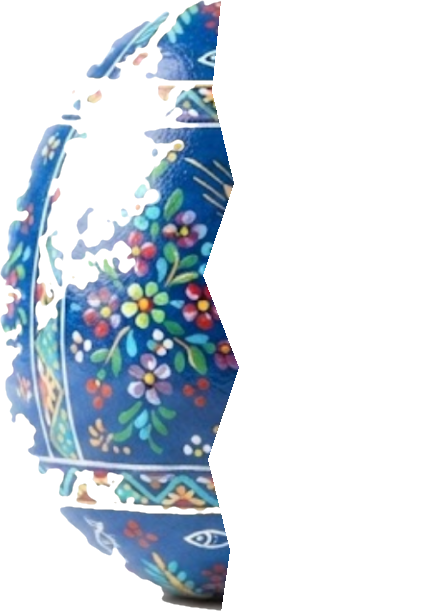
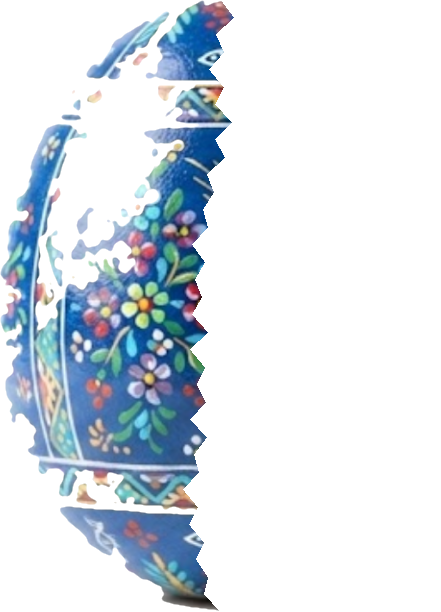
feat: remove egg widget texts and enhance realistic crack and split shell designs

Changed region(s): [[0.4127, 0.0, 0.5601, 1.0]]

diff --git a/src/components/EggWidget.css b/src/components/EggWidget.css
@@ -3,8 +3,8 @@
   flex-direction: column;
   align-items: center;
   justify-content: center;
-  padding: 2.5rem 1rem 1.5rem;
-  min-height: 180px;
+  padding: 1.5rem 1rem 1rem;
+  min-height: 150px;
 }
 
 /* ==================
@@ -16,7 +16,6 @@
   display: flex;
   flex-direction: column;
   align-items: center;
-  gap: 0.6rem;
 }
 
 .egg-image {
@@ -64,39 +63,34 @@
   100% { transform: rotate(-12deg) translateX(-6px) scale(1.05); }
 }
 
-/* Crack overlay */
+/* Crack overlay (Realistic png mask) */
 .egg-cracks {
   position: absolute;
-  top: 5px;
+  top: 0;
   left: 50%;
   transform: translateX(-50%);
-  z-index: 2;
+  width: 90px;
+  height: 125px;
+  object-fit: contain;
+  z-index: 3;
   pointer-events: none;
   animation: crackAppear 0.3s ease forwards;
-  filter: drop-shadow(0 0 4px rgba(255, 255, 255, 0.8));
+  filter: drop-shadow(0 0 3px rgba(255, 255, 255, 0.9)) drop-shadow(0 1px 2px rgba(0, 0, 0, 0.6));
+}
+
+.cracks-subtle {
+  opacity: 0.65;
+  clip-path: polygon(20% 0%, 80% 0%, 80% 45%, 20% 45%);
+}
+
+.cracks-heavy {
+  opacity: 1;
+  clip-path: polygon(0% 0%, 100% 0%, 100% 100%, 0% 100%);
 }
 
 @keyframes crackAppear {
-  from { opacity: 0; transform: translateX(-50%) scale(0.8); }
+  from { opacity: 0; transform: translateX(-50%) scale(0.85); }
   to   { opacity: 1; transform: translateX(-50%) scale(1); }
-}
-
-/* Hint text */
-.egg-hint {
-  font-size: 0.82rem;
-  font-weight: 700;
-  color: #cbd5e1;
-  text-align: center;
-  letter-spacing: 0.02em;
-  background: rgba(15, 23, 42, 0.6);
-  padding: 0.3rem 0.75rem;
-  border-radius: 10px;
-  animation: fadeIn 0.3s ease;
-}
-
-@keyframes fadeIn {
-  from { opacity: 0; transform: translateY(4px); }
-  to   { opacity: 1; transform: translateY(0); }
 }
 
 /* ==================
@@ -108,7 +102,8 @@
   flex-direction: column;
   align-items: center;
   width: 100%;
-  min-height: 160px;
+  min-height: 150px;
+  cursor: pointer;
 }
 
 /* Shell halves fly apart */
@@ -153,7 +148,6 @@
   display: flex;
   flex-direction: column;
   align-items: center;
-  gap: 0.6rem;
   animation: rabbitPop 0.6s cubic-bezier(0.175, 0.885, 0.32, 1.275) 0.35s both;
   position: relative;
   z-index: 5;
@@ -168,7 +162,7 @@
 /* Sparkles around rabbit */
 .rabbit-sparkles {
   position: absolute;
-  top: 0;
+  top: -10px;
   left: 50%;
   transform: translateX(-50%);
   width: 160px;
@@ -194,32 +188,4 @@
   40%  { opacity: 1; transform: scale(1.4) rotate(10deg); }
   70%  { opacity: 1; transform: scale(1) rotate(0deg); }
   100% { opacity: 0; transform: scale(0.5) translateY(-15px); }
-}
-
-/* Message & reset */
-.rabbit-msg {
-  font-size: 1.05rem;
-  font-weight: 800;
-  color: #f8fafc;
-  margin: 0;
-  animation: rabbitPop 0.5s ease 0.8s both;
-}
-
-.rabbit-reset-btn {
-  background: linear-gradient(135deg, #F9A8D4, #F472B6);
-  color: white;
-  border: none;
-  border-radius: 20px;
-  padding: 0.45rem 1.3rem;
-  font-size: 0.9rem;
-  font-weight: 700;
-  cursor: pointer;
-  transition: transform 0.2s ease, box-shadow 0.2s ease;
-  box-shadow: 0 4px 12px rgba(244, 114, 182, 0.4);
-  animation: rabbitPop 0.5s ease 1s both;
-}
-
-.rabbit-reset-btn:hover {
-  transform: scale(1.06);
-  box-shadow: 0 6px 18px rgba(244, 114, 182, 0.55);
 }

diff --git a/src/components/EggWidget.tsx b/src/components/EggWidget.tsx
@@ -34,34 +34,37 @@ export const EggWidget: React.FC = () => {
         <div
           className={`egg-container egg-${stage}`}
           onClick={handleClick}
-          title={stage === 'idle' ? 'なんか聞こえる…？タップしてみて！' : 'もう一回タップ！'}
         >
-          {/* Crack lines overlay when cracking */}
-          {stage === 'cracking' && (
-            <svg className="egg-cracks" viewBox="0 0 80 96" width="86" height="120">
-              <path d="M43 20 L38 38 L48 45 L38 65" stroke="#FFFFFF" strokeWidth="3" fill="none" strokeLinecap="round" />
-              <path d="M30 35 L25 48 L35 52" stroke="#FFFFFF" strokeWidth="2.5" fill="none" strokeLinecap="round" />
-              <path d="M55 30 L60 45 L50 54" stroke="#FFFFFF" strokeWidth="2.5" fill="none" strokeLinecap="round" />
-            </svg>
+          {/* Realistic intricate crack overlay on shaking and cracking */}
+          {stage === 'shaking' && (
+            <img
+              src="/rabbit_egg_cracks.png"
+              alt=""
+              className="egg-cracks cracks-subtle"
+            />
           )}
 
-          {/* New transparent PNG Egg Image */}
+          {stage === 'cracking' && (
+            <img
+              src="/rabbit_egg_cracks.png"
+              alt=""
+              className="egg-cracks cracks-heavy"
+            />
+          )}
+
+          {/* Main transparent PNG Egg Image */}
           <img
             src="/rabbit_egg.png"
-            alt="不思議な卵"
+            alt="不思議な青い卵"
             className="egg-image"
           />
-          
-          <div className="egg-hint">
-            {stage === 'idle' ? 'タップしてみてね 🥚' : stage === 'shaking' ? '揺れている…もう一回！' : 'もう少しで生まれそう！'}
-          </div>
         </div>
       )}
 
-      {/* Hatched Rabbit Scene */}
+      {/* Hatched Rabbit Scene (Click anywhere on scene to reset to egg) */}
       {stage === 'hatched' && (
-        <div className="hatch-scene">
-          {/* Shell halves (cutout left & right PNGs) */}
+        <div className="hatch-scene" onClick={handleReset}>
+          {/* Realistic split shell halves */}
           <img src="/rabbit_egg_left.png" alt="割れた卵左" className="shell-left shell-half-img" />
           <img src="/rabbit_egg_right.png" alt="割れた卵右" className="shell-right shell-half-img" />
 
@@ -113,11 +116,6 @@ export const EggWidget: React.FC = () => {
               <span className="rb-star rb-star-4">🌸</span>
               <span className="rb-star rb-star-5">⭐</span>
             </div>
-
-            <p className="rabbit-msg">うさぎが生まれたよ！🐰</p>
-            <button className="rabbit-reset-btn" onClick={handleReset}>
-              もう一回卵を戻す 🔄
-            </button>
           </div>
         </div>
       )}